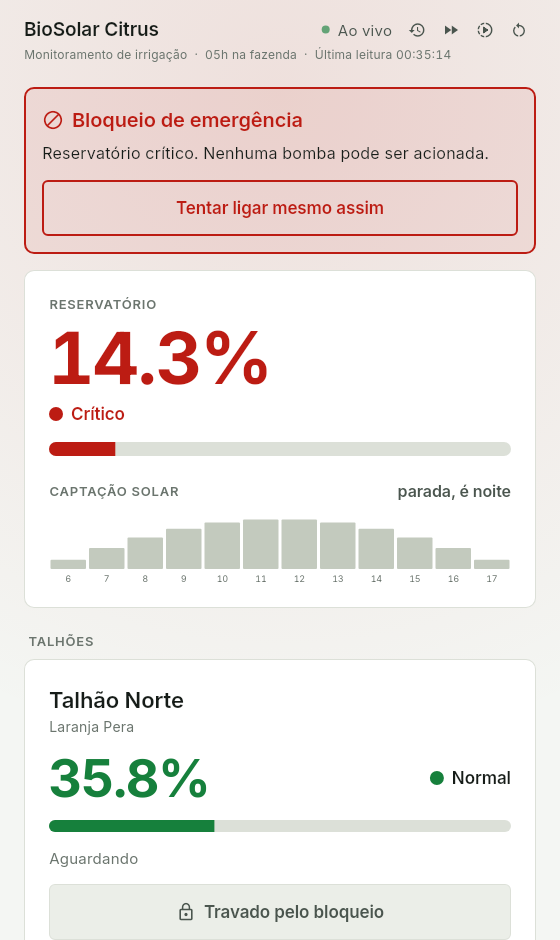
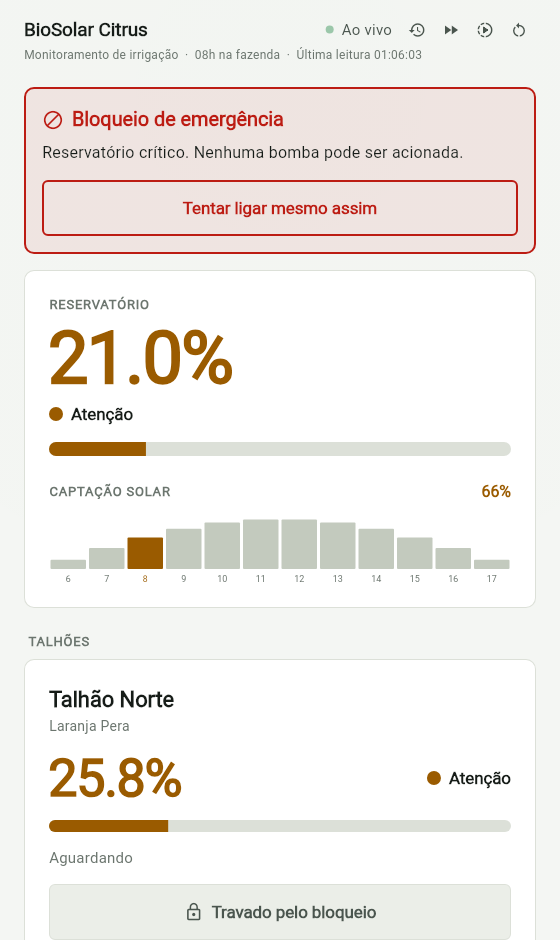
fix: calibragem que deixa o sistema se recuperar do bloqueio
Depois do primeiro bloqueio, a janela entre liberar aos 25% e bloquear aos 15%
durava quatro ciclos com as quatro bombas ligadas, e nesses quatro ciclos cada
talhao subia doze pontos, saindo de zero e parando em doze. Como o gatilho
critico e 25, nenhum talhao voltava a sair do vermelho: o painel entrava num
estado absorvente e nunca mais se recuperava.

Nao era bug de regra, era calibragem. Consumo por bomba cai de 0,8 para 0,40 e a
captacao solar sobe de 0,64 para 1,50, e o estado inicial passa a colocar a
fazenda em estiagem de madrugada, com reservatorio em 26% e os talhoes rente ao
gatilho.

Com isso a captacao repoe 45,8 pontos por dia contra 43,9 de manutencao, uma
folga de 4%, enquanto no pico quatro bombas consomem 1,60 contra 1,50 de
captacao. O sistema fica sustentavel em regime e vulneravel em pico, que e o que
permite o bloqueio acontecer e tambem ser superado.

Medido em velocidade normal a partir do reset: irrigacao automatica aos 4s,
bloqueio aos 15s, liberacao aos 53s, e dai em diante reservatorio entre 23% e
44% com os talhoes ciclando. Os tres cenarios cabem em menos de um minuto sem
acelerar nada, e o bloqueio acontece de madrugada, quando a captacao e zero, o
que faz do amanhecer a resposta.

T13 novo guarda essa fronteira: compara a captacao media do dia com o consumo de
manutencao e falha se a calibragem voltar para o lado errado. Sem ele, mexer nas
duas constantes reintroduz o estado absorvente sem que nenhum teste acuse.
[…]

diff --git a/servidor/lib/infraestrutura/repositorio_memoria.dart b/servidor/lib/infraestrutura/repositorio_memoria.dart
@@ -7,29 +7,38 @@ import '../dominio/repositorio_fazenda.dart';
 
 /// Estado inicial da fazenda demonstrada.
 ///
-/// O Talhao 3 comeca proximo do gatilho de proposito, para que o primeiro
-/// cenario da apresentacao (irrigacao automatica) apareca em poucos ciclos.
+/// A fazenda comeca em estiagem: reservatorio baixo e os quatro talhoes ja
+/// abaixo ou rente ao gatilho critico. Isso faz as quatro bombas ligarem de
+/// saida, o reservatorio despencar e o bloqueio acontecer nos primeiros ciclos,
+/// e e o que da os tres cenarios da apresentacao em menos de um minuto, sem
+/// precisar do modo demonstracao. Depois do bloqueio a captacao solar assume e
+/// o sistema se estabiliza sozinho.
+///
+/// O relogio comeca de madrugada de proposito: as bombas ligam sem sol nenhum
+/// para repor a agua, o que e o que faz o reservatorio chegar ao bloqueio. O
+/// amanhecer logo depois e o que traz a fazenda de volta, e isso e a RN12
+/// aparecendo na narrativa em vez de so na tabela.
 Telemetria estadoInicial(DateTime agora) => Telemetria(
       reservatorio: const Reservatorio(
-          nivel: 70, capacidadeLitros: 50000, bloqueioAtivo: false),
+          nivel: 26, capacidadeLitros: 50000, bloqueioAtivo: false),
       talhoes: const [
         Talhao(
             id: 't1',
             nome: 'Talhão Norte',
             cultura: 'Laranja Pera',
-            umidade: 58),
+            umidade: 24),
         Talhao(
-            id: 't2', nome: 'Talhão Leste', cultura: 'Limão Taiti', umidade: 41),
+            id: 't2', nome: 'Talhão Leste', cultura: 'Limão Taiti', umidade: 22),
         Talhao(
             id: 't3',
             nome: 'Talhão Sul',
             cultura: 'Laranja Valência',
-            umidade: 30),
+            umidade: 20),
         Talhao(
             id: 't4',
             nome: 'Talhão Oeste',
             cultura: 'Limão Siciliano',
-            umidade: 62),
+            umidade: 26),
       ],
       bombas: const [
         Bomba(id: 'b1', talhaoId: 't1', ligada: false),
@@ -38,6 +47,7 @@ Telemetria estadoInicial(DateTime agora) => Telemetria(
         Bomba(id: 'b4', talhaoId: 't4', ligada: false),
       ],
       hora: agora,
+      horaSimulada: 3,
     );
 
 class RepositorioMemoria implements RepositorioFazenda {

diff --git a/servidor/test/regras_test.dart b/servidor/test/regras_test.dart
@@ -89,10 +89,40 @@ void main() {
     );
 
     final depois = atualizarSensores(quatroBombas, agora);
-    expect(depois.reservatorio.nivel, lessThan(80));
+    expect(depois.reservatorio.nivel, lessThan(80),
+        reason: 'com tudo ligado o nivel cai mesmo no pico do sol');
     expect(Limiares.recargaSolarPico,
-        closeTo(4 * Limiares.consumoPorBombaPorTick / 5, 0.001),
-        reason: 'captacao calibrada em um quinto do consumo com carga total');
+        lessThan(4 * Limiares.consumoPorBombaPorTick),
+        reason: 'a captacao no pico nao cobre a irrigacao plena, entao o '
+            'bloqueio continua sendo alcancavel');
+  });
+
+  test('T13 RN12: na media do dia a captacao cobre a manutencao dos talhoes',
+      () {
+    // Este e o teste que separa escassez de colapso. A captacao no pico perde
+    // para quatro bombas, mas a irrigacao e intermitente: em regime, cada
+    // talhao precisa de bomba durante queda / (ganho + queda) do tempo. Se a
+    // captacao media do dia nao cobrir isso, todos os talhoes acabam presos em
+    // estado critico depois do primeiro bloqueio, que foi o que aconteceu com a
+    // calibragem anterior.
+    const ciclosDeSol = 48; // das 6h as 18h, a 0,25h por ciclo
+    const ciclosDoDia = 96;
+    const mediaDoSeno = 2 / 3.14159265; // media de sin sobre meio periodo
+
+    final captacaoPorDia =
+        Limiares.recargaSolarPico * mediaDoSeno * ciclosDeSol;
+
+    final fracaoIrrigando = Limiares.quedaUmidadePorTick /
+        (Limiares.ganhoUmidadePorTick + Limiares.quedaUmidadePorTick);
+    final consumoPorDia = 4 *
+        fracaoIrrigando *
+        Limiares.consumoPorBombaPorTick *
+        ciclosDoDia;
+
+    expect(captacaoPorDia, greaterThan(consumoPorDia),
+        reason: 'captacao de ${captacaoPorDia.toStringAsFixed(1)} pontos por '
+            'dia contra consumo de manutencao de '
+            '${consumoPorDia.toStringAsFixed(1)}');
   });
 
   test('T12 RN05: irrigacao manual acima do patamar gera alerta sem desligar',

diff --git a/compartilhado/lib/modelos.dart b/compartilhado/lib/modelos.dart
@@ -55,17 +55,20 @@ class Limiares {
   static const double ganhoUmidadePorTick = 3.0;
 
   /// RN03: consumo do reservatorio por bomba ligada, por ciclo.
-  static const double consumoPorBombaPorTick = 0.8;
+  static const double consumoPorBombaPorTick = 0.40;
 
   /// RN12: vazao maxima da captacao solar, no pico do dia.
   ///
-  /// Calibrado em um quinto do consumo com as quatro bombas ligadas, ou seja,
-  /// a captacao nunca compensa a irrigacao plena e o reservatorio continua
-  /// caindo ate o bloqueio. Com as bombas paradas ela repoe agua devagar, o
-  /// que e o que permite a liberacao do bloqueio (RN09) acontecer ao vivo.
-  // ponytail: numero de calibragem. Subir se a liberacao demorar demais na
-  // apresentacao, baixar se o bloqueio deixar de acontecer.
-  static const double recargaSolarPico = 0.64;
+  /// Calibrado logo abaixo do consumo com as quatro bombas ligadas, que e
+  /// 4 x 0,40 = 1,60. No pico do sol, portanto, irrigar tudo ao mesmo tempo
+  /// ainda derruba o reservatorio, e o bloqueio continua sendo possivel.
+  ///
+  /// Mas a captacao e nula a noite e a irrigacao e intermitente, entao na media
+  /// do dia ela cobre a manutencao dos quatro talhoes: a fazenda se paga sem
+  /// deixar de ser vulneravel a irrigacao plena. O T13 prova esse equilibrio.
+  // ponytail: numero de calibragem. Subir se o sistema nao se recuperar depois
+  // do bloqueio, baixar se o bloqueio deixar de acontecer.
+  static const double recargaSolarPico = 1.5;
 
   /// Quanto o relogio da fazenda avanca a cada ciclo. Um dia inteiro leva 96
   /// ciclos, cerca de meio minuto no modo demonstracao.

diff --git a/README.md b/README.md
@@ -99,7 +99,7 @@ funcione e não está no enunciado.
 | --- | --- | --- | --- |
 | RN01 | Queda natural da umidade | 1,2 ponto por ciclo em talhão sem irrigação | Caderno, taxa calibrada aqui |
 | RN02 | Recuperação por irrigação | 3,0 pontos por ciclo com aspersor ligado | Caderno, taxa calibrada aqui |
-| RN03 | Consumo do reservatório | 0,8 por bomba ligada por ciclo | Caderno, taxa calibrada aqui |
+| RN03 | Consumo do reservatório | 0,40 por bomba ligada por ciclo | Caderno, taxa calibrada aqui |
 | RN04 | Irrigação crítica automática | umidade abaixo de 25% aciona o aspersor | Caderno |
 | RN05 | Encerramento da irrigação automática | umidade de volta a 45%, acima do gatilho para criar histerese | Caderno, patamar e histerese decididos aqui |
 | RN06 | Bloqueio de emergência | reservatório abaixo de 15% desliga todas as bombas | Caderno |
@@ -108,7 +108,7 @@ funcione e não está no enunciado.
 | RN09 | Liberação do bloqueio | reservatório de volta a 25% | Decisão de projeto |
 | RN10 | Faixas de alerta | verde, amarelo e vermelho, com rótulo escrito junto da cor | Caderno, fronteiras decididas aqui |
 | RN11 | Origem do evento | todo evento identifica se foi operador ou sistema | Decisão de projeto |
-| RN12 | Captação solar | vazão que acompanha a curva do sol, nula à noite, no pico valendo um quinto do consumo com as quatro bombas ligadas | Decisão de projeto |
+| RN12 | Captação solar | vazão que acompanha a curva do sol, nula à noite, no pico valendo 1,50 contra os 1,60 que quatro bombas consomem | Decisão de projeto |
 
 O caderno define os dois limiares que importam, 25% de umidade e 15% de
 reservatório. Todo o resto, as taxas de queda e recuperação, o consumo por
@@ -120,12 +120,20 @@ que os cenários aconteçam em tempo de demonstração.
 O caderno define o consumo do reservatório, mas não diz o que o reabastece. Sem
 reposição, depois do primeiro bloqueio o nível ficaria parado para sempre e a
 RN09 nunca aconteceria fora dos testes. A captação solar resolve isso e faz o
-nome do projeto significar alguma coisa: ela segue a curva do sol, é nula à
-noite, e no pico do dia vale um quinto do consumo com as quatro bombas ligadas.
-Ou seja, **ela nunca compensa a irrigação plena**, então o reservatório continua
-caindo até o bloqueio como o caderno espera. Com as bombas paradas ela repõe
-água devagar, e é isso que faz a liberação acontecer ao vivo na demonstração. O
-valor de calibragem é `Limiares.recargaSolarPico`.
+nome do projeto significar alguma coisa.
+
+A calibragem dela é o coração do comportamento do sistema, e são dois números em
+tensão. No pico do dia a captação vale **1,50**, contra os **1,60** que as quatro
+bombas consomem juntas: irrigar tudo ao mesmo tempo derruba o reservatório mesmo
+ao meio-dia, e é por isso que o bloqueio continua sendo alcançável. Mas a
+irrigação é intermitente e a captação só falta à noite, então **na média do dia
+ela cobre a manutenção dos quatro talhões** e a fazenda se sustenta.
+
+É essa diferença que separa escassez de colapso. Com a captação abaixo da
+manutenção, o sistema entra num estado absorvente: depois do primeiro bloqueio a
+janela de irrigação fica curta demais para tirar qualquer talhão do crítico, e o
+painel nunca mais sai do vermelho. O **T13** existe para provar que a calibragem
+está do lado certo dessa fronteira.
 
 ### Contrato da API
 
@@ -214,7 +222,7 @@ Dois detalhes que valem apontar:
 
 ## Testes
 
-Dezesseis testes no total, executados a cada envio pela rotina de integração
+Dezessete testes no total, executados a cada envio pela rotina de integração
 contínua em [`.github/workflows/ci.yaml`](.github/workflows/ci.yaml). As regras
 são funções puras, então os testes mais importantes do projeto são também os
 mais simples de escrever, sem nenhum objeto falso e sem subir servidor.
@@ -244,23 +252,30 @@ do repositório:
 | T10 | Todo evento identifica corretamente a origem | RN11 |
 | T11 | A captação solar segue a curva do sol e nunca compensa a irrigação plena | RN12 |
 | T12 | A irrigação manual acima do patamar alerta sem desligar, e alerta uma vez só | RN05 |
+| T13 | **Na média do dia a captação cobre a manutenção dos talhões** | RN12 |
 
 O **T07 é o mais valioso da suíte**, porque documenta a precedência entre as duas
 regras críticas do desafio, que é o ponto onde a maioria das implementações
 falha. O T12 roda duzentos ciclos até o solo saturar em 100%, porque é ali que
 um teste de cruzamento ingênuo vira condição permanente e o alerta viraria spam.
 
+O **T13 guarda a fronteira entre escassez e colapso**. Ele compara a captação
+média do dia com o consumo de manutenção dos quatro talhões, e falha se a
+calibragem cair para o lado errado. Sem ele, mudar `consumoPorBombaPorTick` ou
+`recargaSolarPico` pode devolver o sistema ao estado em que nenhum talhão sai do
+crítico depois do primeiro bloqueio, e nada nos outros testes acusaria.
+
 Os quatro testes de bloc cobrem o que a interface promete: telemetria recebida
 vira estado carregado, a perda de contato não apaga a última leitura conhecida,
 a leitura seguinte reconecta a tela sozinha, e a recusa do servidor chega à
 interface com a mensagem original.
 
-## Balanço hídrico e regime de escassez
+## Balanço hídrico
 
-O reservatório opera em déficit, e isso não é acidente de calibragem: é o
-cenário que o caderno descreve. Durante a estiagem, a demanda de irrigação de um
-pomar supera com folga o que a captação solar consegue repor, e a medição abaixo
-quantifica exatamente isso.
+A fazenda opera no limite, e de propósito. A captação solar cobre a manutenção
+dos talhões por pouco, mas não cobre irrigação plena simultânea, e é essa margem
+estreita que faz o sistema ter os dois comportamentos que o caderno pede: ele
+chega ao bloqueio de emergência e também se recupera dele.
 
 ### Os números, medidos
 
@@ -271,56 +286,57 @@ ligadas em média, de forma contínua.
 
 | | Cálculo | Pontos percentuais por dia |
 | --- | --- | --- |
-| Captação solar | `0,64 x média do seno x 48 ciclos de sol` | **19,6** |
-| Consumo da irrigação | `1,14 bombas x 0,8 x 96 ciclos` | **87,8** |
-| Saldo | | **-68,2** |
+| Captação solar | `1,50 x média do seno x 48 ciclos de sol` | **45,8** |
+| Consumo de manutenção | `1,14 bombas x 0,40 x 96 ciclos` | **43,9** |
+| Saldo | | **+2,0** |
 
-**O consumo é cerca de 4,5 vezes a captação.** O único momento em que o nível
-sobe é durante o bloqueio, com todas as bombas desligadas, e por isso o sistema
-se estabiliza oscilando entre 13% e 25%: é o único equilíbrio possível com esta
-fazenda.
+A folga é de 4%. No pico do dia, porém, quatro bombas ligadas consomem 1,60
+contra os 1,50 da captação, então **irrigação plena simultânea derruba o
+reservatório mesmo ao meio-dia**. O sistema é sustentável em regime e vulnerável
+em pico, que é exatamente o que torna o bloqueio uma proteção necessária em vez
+de um detalhe decorativo.
 
-Observado em execução, com a simulação acelerada:
+### O cenário, observado em execução
 
-| Hora simulada | Nível | Bloqueio | Bombas |
-| --- | --- | --- | --- |
-| 12h | 24,7% | ativo | 0 |
-| 13h | 17,7% | liberado | 4 |
-| 14h | 13,6% | ativo | 0 |
-| 18h às 6h | 18,2% | ativo | 0 |
-| 8h | 19,7% | ativo | 0 |
+O estado inicial coloca a fazenda em estiagem de madrugada: reservatório em 26%,
+os quatro talhões abaixo ou rente ao gatilho, e o relógio às 3h, quando não há
+sol nenhum para repor água. Medido em velocidade normal, a partir do reset:
 
-O bloqueio é liberado quando a captação leva o nível aos 25%, as quatro bombas
-ligam de uma vez nos talhões secos e derrubam onze pontos em uma hora simulada,
-e o bloqueio volta. À noite o nível fica parado, porque a captação é solar.
+| Tempo real | Hora na fazenda | O que acontece |
+| --- | --- | --- |
+| 0s | 03h | Reservatório 26%, talhões entre 20% e 26% |
+| ~4s | 04h | As quatro bombas ligam sozinhas (RN04) |
+| **15s** | 05h | **Bloqueio de emergência** aos 14,8% (RN06) |
+| **53s** | 09h | **Liberação** aos 25,6%, pela captação solar (RN09, RN12) |
+| daí em diante | | Reservatório entre 23% e 44%, talhões ciclando entre 20% e 47% |
 
-### O que isso quer dizer
+Os três cenários da apresentação cabem em **53 segundos sem acelerar nada**, e
+depois o sistema se mantém estável sozinho. O bloqueio acontece de madrugada,
+quando a captação é zero, e quem traz a fazenda de volta é o amanhecer.
 
-**A fazenda é subdimensionada para irrigação plena.** Dimensionar reservatório e
-captação para a demanda do pomar é decisão de projeto agronômico, não de
+### Dimensionamento
+
+Uma fazenda real não é calibrada assim por acaso. Dimensionar reservatório e
+captação para a demanda de um pomar é decisão de projeto agronômico, não de
 software: envolve área irrigada, cultura, evapotranspiração local e orçamento de
-painel solar. O papel do sistema de automação diante de uma fazenda assim é
-exatamente o que ele faz, que é **impedir que o reservatório zere**, irrigando
-enquanto há água e travando tudo quando não há.
-
-Uma calibragem alternativa, se o objetivo fosse um cenário que se recupera em
-vez de oscilar, seria mexer no estado inicial em vez das taxas: partir de
-talhões bem secos para o bloqueio acontecer logo no começo, e reduzir o consumo
-por bomba para que a fazenda se sustente depois disso. Os números atuais foram
-escolhidos para que o bloqueio aconteça de forma confiável na demonstração.
+painel solar. O que o sistema de automação faz diante do dimensionamento que
+recebeu é irrigar enquanto há água, travar tudo quando não há, e voltar a operar
+quando a fonte se recupera.
 
 ### Irrigação sem priorização
 
 O sistema trata todos os talhões com igualdade, então quando o bloqueio é
-liberado todos os que estiverem abaixo do gatilho são irrigados ao mesmo tempo.
-Uma regra de priorização por criticidade, irrigando apenas o talhão mais seco
-abaixo de um patamar de conforto, suavizaria a queda e entraria como mais uma
-função no mesmo módulo de regras, sem tocar em transporte nem em interface.
+liberado todos os que estiverem abaixo do gatilho são irrigados ao mesmo tempo,
+o que é justamente o pico de consumo que o reservatório não sustenta. Uma regra
+de priorização por criticidade, irrigando apenas o talhão mais seco abaixo de um
+patamar de conforto, suavizaria essa queda e entraria como mais uma função no
+mesmo módulo de regras, sem tocar em transporte nem em interface.
 
-Vale a ressalva de que ela **não elimina o déficit**: como a manutenção dos
-quatro talhões exige 1,14 bombas em média, uma bomba de cada vez não dá conta do
-pomar inteiro. O problema é de dimensionamento, e a priorização trata do
-sintoma.
+Vale registrar o que foi medido a respeito: a priorização **não** substitui o
+dimensionamento. Numa calibragem em que a captação fica abaixo da manutenção,
+simular uma bomba por vez não tira os talhões do crítico, porque enquanto um
+sobe 3,0 os outros três caem 1,2 cada. A priorização melhora o pico; quem
+resolve o regime é o balanço da tabela acima.
 
 ### Pausa noturna da captação
 
